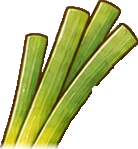
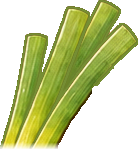
Soften carrot and scallion ink outlines to warm colors (egg outline untouched); fix flyArch helper, remove egg ink wiring

diff --git a/src/app/preview/visual/page.tsx b/src/app/preview/visual/page.tsx
@@ -99,7 +99,6 @@ function StageV2() {
     tableAt,
     tableWait: tableAt.hear,
     eggAtTable: eggAtTableFor(cfg),
-    ink: BG.anchors.eggInk, // 深棕黑描边，和背景里胡萝卜、葱的墨线一致
     // 高跳之后的空中站点：画面上缘之外、铲面右上方（接蛋时从这里落到铲面）
     // 高跳轨迹 P(s)：L（右侧桌面）→ M（妈妈视线相遇点）→ E（出画）→ R（铲面右上方、catch 取景上缘外）→ C（铲面接触点）（eggPath.trajectoryFor，docs/EGG-JUMP.md）
     traj: trajectoryFor(cfg, vp, camAt(gOf("hear", 0.6), vp.w, vp.h), catchView(vp.w, vp.h), tableAt.hear),

diff --git a/src/components/kitchen/Egg.tsx b/src/components/kitchen/Egg.tsx
@@ -216,8 +216,8 @@ export function trajFoot(T: EggTraj, s: number): Pt {
   return { x: R.x + (C.x - R.x) * u, y: R.y + (C.y - R.y) * u * u };
 }
 /** 平飞段的参数：匀速为主，起步和收尾各缓一点 */
-const FLY_F = 0.1;
-const flyEase = (u: number) => u * u * (3 - 2 * u) * 0.35 + u * 0.65;
+/** 抛物线拱高（场景像素）：随水平距离，至少 40 */
+const flyArch = (T: EggTraj) => 40 + 0.25 * Math.abs(T.M.x - T.L.x);
 function trajPose(T: EggTraj, s: number): Pose {
   const f = trajFoot(T, s);
   const u = s > T.sR ? (s - T.sR) / (1 - T.sR) : 0;

diff --git a/tools/prepare_planes.py b/tools/prepare_planes.py
@@ -106,6 +106,38 @@ def fill_rows(img: np.ndarray, hole: np.ndarray, usable: np.ndarray, feather: in
     return out
 
 
+# 蛋是金色细线描边，胡萝卜和葱的深棕黑墨线跟它不是一个画风（2026-11-15 用户：蛋的边不动，蔬菜的边改成跟本色相配的暖色）。
+# 只换大块的墨线（轮廓），小块（眼睛、嘴）保持深色。区域是图片像素 (x0, y0, x1, y1)，颜色 RGB。
+INK_RECOLOR = [
+    ((1445, 425, 1565, 505), (176, 96, 38)),  # 胡萝卜身子和手：焦橙
+    ((1445, 320, 1565, 425), (118, 142, 52)),  # 胡萝卜叶子：橄榄绿
+    ((1296, 519, 1400, 710), (150, 132, 78)),  # 葱身子：暖金棕
+]
+LEAVES_PNG = ROOT / "public/assets/bg/friends-scallion-leaves.png"  # 葱叶角色层（tools/prepare_friends.py 生成，这里再换一次墨线色）
+LEAVES_COLOR = (118, 142, 52)
+
+
+def recolor_ink(rgb: np.ndarray, box: tuple[int, int, int, int], color: tuple[int, int, int], min_area: int = 800) -> np.ndarray:
+    x0, y0, x1, y1 = box
+    sub = rgb[y0:y1, x0:x1].astype(np.float32)
+    lum = cv2.cvtColor(rgb[y0:y1, x0:x1], cv2.COLOR_RGB2GRAY).astype(np.float32)
+    lab, n = ndimage.label(lum <= INK)
+    sizes = ndimage.sum(np.ones_like(lab), lab, range(1, n + 1))
+    keep = np.isin(lab, [i + 1 for i, a in enumerate(sizes) if a >= min_area])
+    near = ndimage.binary_dilation(keep, iterations=2)
+    w = np.clip((150 - lum) / 90, 0, 1) * near
+    out = sub * (1 - w[..., None]) + np.array(color, np.float32) * w[..., None]
+    res = rgb.copy()
+    res[y0:y1, x0:x1] = np.clip(out, 0, 255).astype(np.uint8)
+    return res
+
+
+def soften_ink(rgb: np.ndarray) -> np.ndarray:
+    for box, color in INK_RECOLOR:
+        rgb = recolor_ink(rgb, box, color)
+    return rgb
+
+
 def classify(rgb: np.ndarray) -> tuple[np.ndarray, dict]:
     """返回物件遮罩（台面后沿以上，True = 近景）和统计。"""
     H, W = rgb.shape[:2]
@@ -220,6 +252,7 @@ def main() -> None:
     # 右区域 x < SPLIT_X、y > SCALLION_Y 的是葱角色的身子（叶子是另一个角色层）。
     # 每个像素只属于一张切片（按位置硬分），透明度都来自整体羽化后的同一张 alpha，所以切片之间没有接缝
     # （各自羽化再叠会在分界线上露出底下的墙，是一条亮线）
+    rgb = soften_ink(rgb)
     yy, xx = np.mgrid[0:H, 0:W]
     full = cv2.GaussianBlur(objects.astype(np.float32), (3, 3), 0)
     part = full > 0
